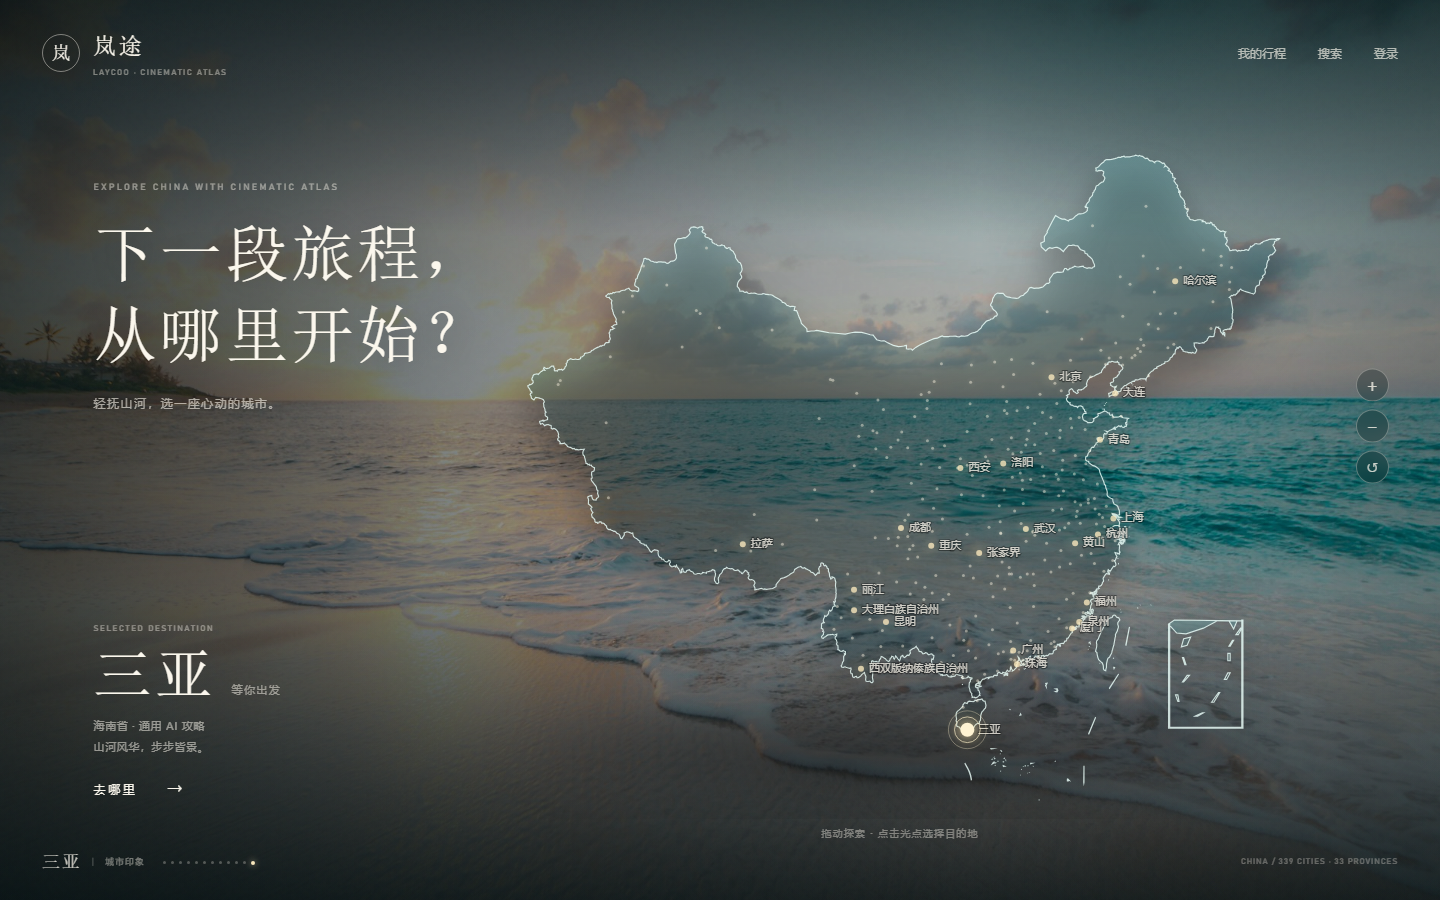
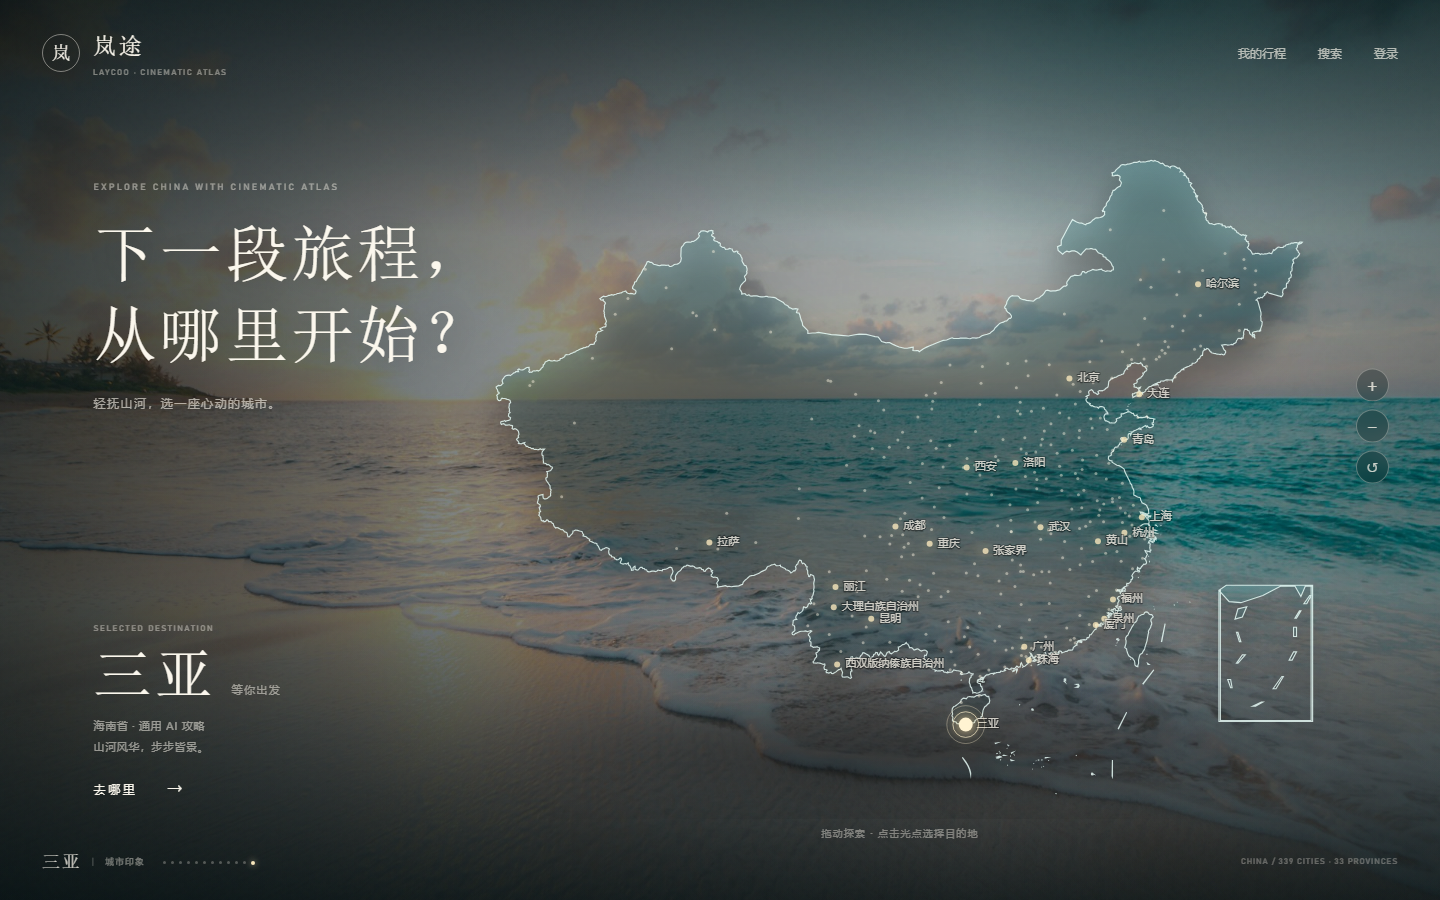
feat: 中国地图改为斜俯视立体角度
地图轮廓和城市点统一应用斜俯视投影：北部收窄、纵向压缩、轻微东移；保持城市点位与轮廓对齐，并保留渐变色与投影增强立体感。

diff --git a/src/components/plan/ChinaCityMap.vue b/src/components/plan/ChinaCityMap.vue
@@ -2,7 +2,7 @@
 import { computed, onBeforeUnmount, onMounted, ref, watch } from 'vue'
 import * as echarts from 'echarts'
 import type { EChartsOption } from 'echarts'
-import chinaGeoJson from '@/assets/maps/china-outline.json'
+import chinaOutline from '@/assets/maps/china-outline.json'
 import type { City } from '@/types'
 
 const props = defineProps<{
@@ -45,10 +45,55 @@ function dataOf(params: unknown): CityDatum | undefined {
 const selectedCity = computed(() => props.cities.find((city) => city.code === props.modelValue))
 const featuredSet = computed(() => new Set(props.featuredCodes || []))
 
+const OBLIQUE_LAT_BASE = 18
+const OBLIQUE_LAT_SPAN = 36
+const OBLIQUE_TILT = 0.78
+const OBLIQUE_NARROW = 0.22
+const OBLIQUE_SHIFT = 2.5
+
+/**
+ * 斜俯视投影：北部收窄、纵向压缩、轻微东移，形成从南向北俯瞰的斜角。
+ * 地图轮廓与城市点使用同一个函数，因此点位不会与地图错位。
+ */
+function obliquePoint(point: number[]): [number, number] {
+  const lon = point[0]
+  const lat = point[1]
+  const north = Math.max(0, Math.min(1, (lat - OBLIQUE_LAT_BASE) / OBLIQUE_LAT_SPAN))
+  const width = 1 - OBLIQUE_NARROW * north
+  return [
+    104 + (lon - 104) * width + OBLIQUE_SHIFT * north,
+    OBLIQUE_LAT_BASE + (lat - OBLIQUE_LAT_BASE) * OBLIQUE_TILT
+  ]
+}
+
+const MAP_CENTER = obliquePoint([104, 36])
+
+function transformCoordinates(coords: unknown): unknown {
+  if (Array.isArray(coords) && typeof coords[0] === 'number') {
+    return obliquePoint(coords as number[])
+  }
+  return (coords as unknown[]).map(transformCoordinates)
+}
+
+interface RawGeoJson {
+  features: Array<{ geometry?: { coordinates?: unknown } } & Record<string, unknown>>
+}
+
+const rawChina = chinaOutline as unknown as RawGeoJson
+const chinaGeoJson = {
+  ...rawChina,
+  features: rawChina.features.map((feature) => ({
+    ...feature,
+    geometry: feature.geometry
+      ? { ...feature.geometry, coordinates: transformCoordinates(feature.geometry.coordinates) }
+      : feature.geometry
+  }))
+}
+
 const option = computed<EChartsOption>(() => {
   const all: CityDatum[] = props.cities.map((city) => ({
     name: city.name,
-    value: [city.longitude, city.latitude],
+    value: obliquePoint([city.longitude, city.latitude]),
     cityCode: city.code,
     province: city.province,
     hasContent: city.hasContent === 1,
@@ -63,7 +108,7 @@ const option = computed<EChartsOption>(() => {
       map: 'china',
       roam: true,
       zoom: currentZoom,
-      center: [104, 36],
+      center: MAP_CENTER,
       layoutCenter: ['50%', '50%'],
       layoutSize: '100%',
       scaleLimit: { min: 0.9, max: 14 },
@@ -194,7 +239,7 @@ function zoomOut() {
 
 function resetView() {
   currentZoom = 1.08
-  chart?.setOption({ geo: { center: [104, 36], zoom: currentZoom } })
+  chart?.setOption({ geo: { center: MAP_CENTER, zoom: currentZoom } })
 }
 
 function focusSelected() {
@@ -203,7 +248,7 @@ function focusSelected() {
     return
   }
   currentZoom = 3.8
-  chart?.setOption({ geo: { center: [city.longitude, city.latitude], zoom: currentZoom } })
+  chart?.setOption({ geo: { center: obliquePoint([city.longitude, city.latitude]), zoom: currentZoom } })
 }
 
 onMounted(() => {

diff --git a/README.md b/README.md
@@ -45,7 +45,7 @@ npm.cmd run dev
 
 - 首页只保留城市选择，不再放日期与偏好表单；表单移到 `/plan/new?city=...`
 - 中国地图使用 ECharts Geo + 339 个城市光点，覆盖地级及以上城市（含港澳）
-- 地图采用单层国家级轮廓、渐变填充、投影与底部阴影，在保持城市位置准确的前提下增强立体感
+- 地图采用斜俯视投影（北部收窄、纵向压缩、轻微东移），轮廓与城市点共用同一变换，兼顾立体感与位置准确
 - 首页为深色电影感界面，选中城市后背景切换为该城市地标影像；图片由后端 `/api/v1/city/{code}/image` 代理 Wikipedia 并缓存，避免浏览器跨域与代理问题
 - 支持城市 / 省份搜索、热门城市快捷选择、地图缩放与聚焦
 - 地图数据在 `src/assets/maps/china-outline.json`，本地加载，不依赖 CDN

diff --git a/src/assets/maps/README.md b/src/assets/maps/README.md
@@ -6,5 +6,5 @@
 - 来源：阿里云 DataV `areas_v3/bound/100000.json`（公开地理边界数据）
 - 文件大小约 160 KB，由 `ChinaCityMap.vue` 本地加载，不依赖外部 CDN
 - 城市点位来自后端 `GET /api/v1/city/list` 的经纬度，共 339 个国内地级及以上城市
-- 地图采用渐变填充、投影和底部阴影形成立体浮雕感；不使用偏移地图层，保证城市位置准确
+- 地图采用斜俯视投影（北部收窄、纵向压缩、轻微东移），轮廓与城市点使用同一变换，保证点位对齐
 
